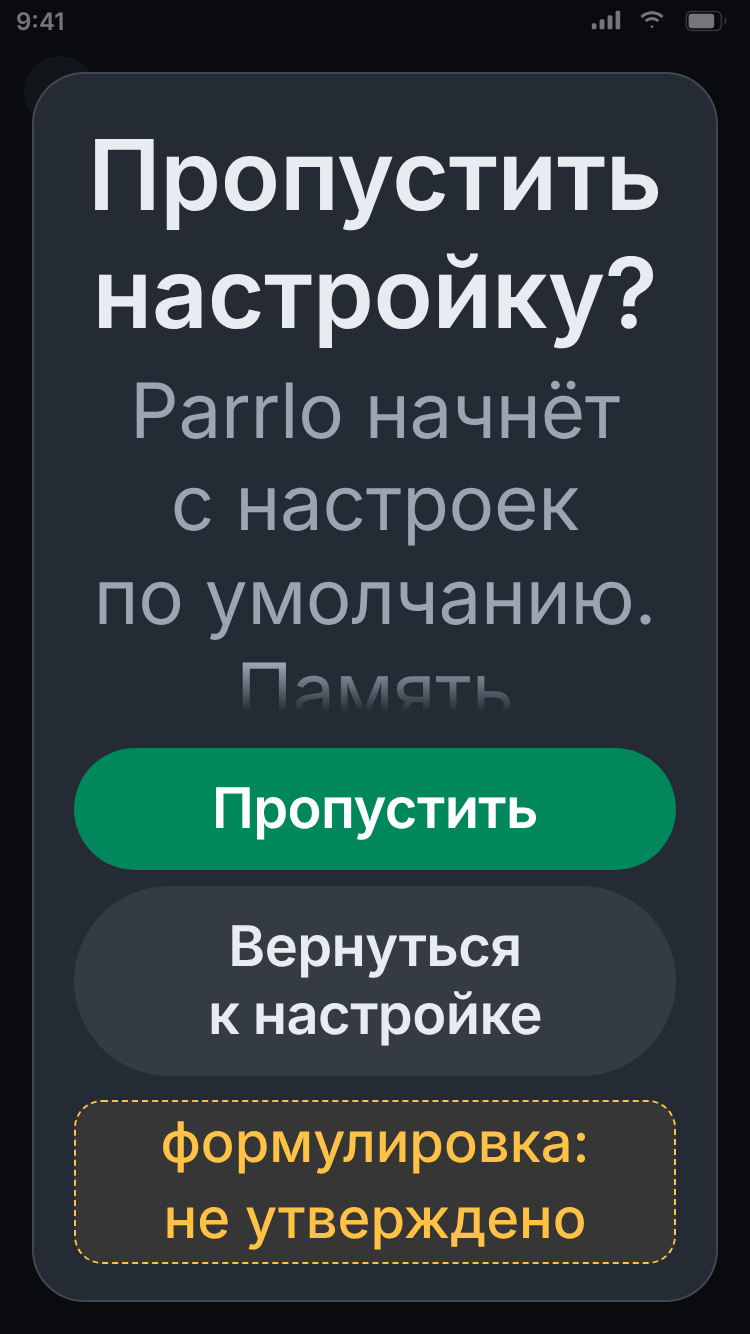
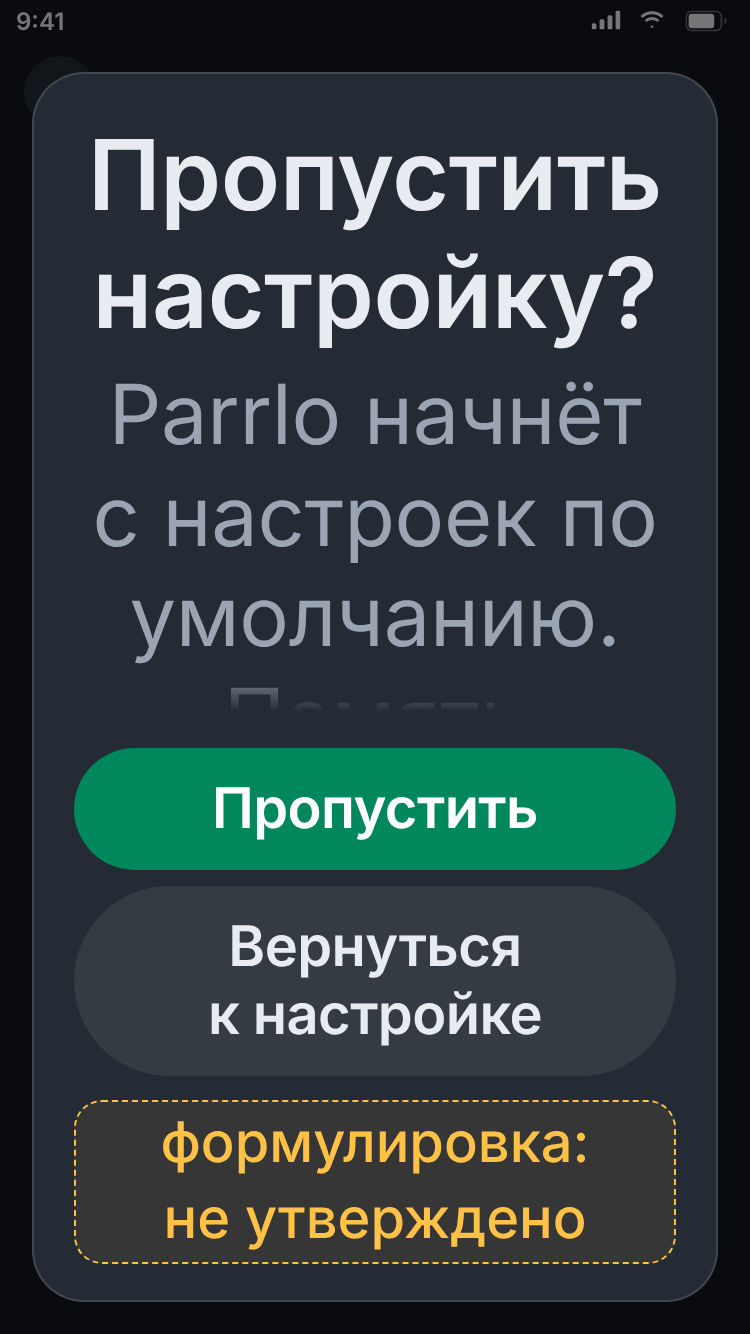
Онбординг: порядок раскладка → unglue → WordFit (только одиночные слова); проверка цепочек из PR 74 — 0
Claude-Session: https://claude.ai/code/session_01XzoWkW25V1nW2Qv4cEPq3n

Changed region(s): [[0.1227, 0.3688, 0.8893, 0.5225], [0.4907, 0.2766, 0.8587, 0.3381], [0.1533, 0.2766, 0.46, 0.3381]]

diff --git a/redesign-ios/onboarding/account-banned.html b/redesign-ios/onboarding/account-banned.html
@@ -39,7 +39,7 @@ h.dataset.theme='dark';var l=q.get('l');h.lang=(l==='es'||l==='en')?l:'ru';})()<
     L=Math.max(L,ab.left+parseFloat(ac.paddingLeft)+parseFloat(ac.borderLeftWidth)-0.5);R=Math.min(R,ab.right-parseFloat(ac.paddingRight)-parseFloat(ac.borderRightWidth)+0.5);if(a.classList.contains('screen'))break}
    var bad=false;
    var w=document.createTreeWalker(el,NodeFilter.SHOW_TEXT), n;
-   while(!bad&&(n=w.nextNode())){if(n.parentElement.closest(sel)!==el)continue;var re=/[^ \n\t]+/g,m;while((m=re.exec(n.data))){var r=document.createRange();r.setStart(n,m.index);r.setEnd(n,m.index+m[0].length);
+   while(!bad&&(n=w.nextNode())){if(n.parentElement.closest(sel)!==el)continue;var re=/[^ \n\t\u00a0]+/g,m;while((m=re.exec(n.data))){var r=document.createRange();r.setStart(n,m.index);r.setEnd(n,m.index+m[0].length);
      var rs=[].slice.call(r.getClientRects()).filter(function(x){return x.width>0});
      var tops={};rs.forEach(function(x){tops[Math.round(x.top)]=1});
      if(Object.keys(tops).length>1){bad=true;break}
@@ -55,13 +55,14 @@ h.dataset.theme='dark';var l=q.get('l');h.lang=(l==='es'||l==='en')?l:'ru';})()<
 (function(){var h=document.documentElement,t=document.getElementById('l-'+h.lang),m=document.querySelector('main');
 m.className='screen '+t.dataset.cls;m.appendChild(t.content.cloneNode(true));
 // порядок: раскладка → unglue → WordFit; data-ready — после обоих
-// раскладка → unglue → WordFit (склеенная цепочка считается одним словом: шрифт уменьшается, пока она не влезет) → unglue для оставшихся
+// порядок (решение Мурата 22.11): раскладка → unglue → WordFit (только одиночные слова, не ниже 28)
+// Если WordFit уменьшил шрифт блока, решения unglue в нём устарели: склейку в этом блоке возвращаем и снимаем заново
+// при новом шрифте (шрифт ради склейки не меняется).
 document.fonts.ready.then(function(){var orig=new Map(),tw=document.createTreeWalker(m,NodeFilter.SHOW_TEXT),x;
  while((x=tw.nextNode()))if(x.data.indexOf(' ')>=0)orig.set(x,x.data);
- window.unglue();
- orig.forEach(function(v,k){k.data=v});
- wordfit();
- window.unglue();
+ window.unglue();wordfit();
+ var fit=document.querySelectorAll('[data-wf]');
+ if(fit.length){fit.forEach(function(el){var w2=document.createTreeWalker(el,NodeFilter.SHOW_TEXT),y;while((y=w2.nextNode()))if(orig.has(y))y.data=orig.get(y);});window.unglue();}
  var s=document.querySelector('.susp'),g=document.querySelector('.msgs');if(s&&g)g.style.paddingBottom=(s.offsetHeight+8)+'px';
  document.body.dataset.ready='1';});})();</script>
 </body></html>

diff --git a/redesign-ios/onboarding/account-suspended.html b/redesign-ios/onboarding/account-suspended.html
@@ -54,7 +54,7 @@ h.dataset.theme='dark';var l=q.get('l');h.lang=(l==='es'||l==='en')?l:'ru';})()<
     L=Math.max(L,ab.left+parseFloat(ac.paddingLeft)+parseFloat(ac.borderLeftWidth)-0.5);R=Math.min(R,ab.right-parseFloat(ac.paddingRight)-parseFloat(ac.borderRightWidth)+0.5);if(a.classList.contains('screen'))break}
    var bad=false;
    var w=document.createTreeWalker(el,NodeFilter.SHOW_TEXT), n;
-   while(!bad&&(n=w.nextNode())){if(n.parentElement.closest(sel)!==el)continue;var re=/[^ \n\t]+/g,m;while((m=re.exec(n.data))){var r=document.createRange();r.setStart(n,m.index);r.setEnd(n,m.index+m[0].length);
+   while(!bad&&(n=w.nextNode())){if(n.parentElement.closest(sel)!==el)continue;var re=/[^ \n\t\u00a0]+/g,m;while((m=re.exec(n.data))){var r=document.createRange();r.setStart(n,m.index);r.setEnd(n,m.index+m[0].length);
      var rs=[].slice.call(r.getClientRects()).filter(function(x){return x.width>0});
      var tops={};rs.forEach(function(x){tops[Math.round(x.top)]=1});
      if(Object.keys(tops).length>1){bad=true;break}
@@ -70,13 +70,14 @@ h.dataset.theme='dark';var l=q.get('l');h.lang=(l==='es'||l==='en')?l:'ru';})()<
 (function(){var h=document.documentElement,t=document.getElementById('l-'+h.lang),m=document.querySelector('main');
 m.className='screen '+t.dataset.cls;m.appendChild(t.content.cloneNode(true));
 // порядок: раскладка → unglue → WordFit; data-ready — после обоих
-// раскладка → unglue → WordFit (склеенная цепочка считается одним словом: шрифт уменьшается, пока она не влезет) → unglue для оставшихся
+// порядок (решение Мурата 22.11): раскладка → unglue → WordFit (только одиночные слова, не ниже 28)
+// Если WordFit уменьшил шрифт блока, решения unglue в нём устарели: склейку в этом блоке возвращаем и снимаем заново
+// при новом шрифте (шрифт ради склейки не меняется).
 document.fonts.ready.then(function(){var orig=new Map(),tw=document.createTreeWalker(m,NodeFilter.SHOW_TEXT),x;
  while((x=tw.nextNode()))if(x.data.indexOf(' ')>=0)orig.set(x,x.data);
- window.unglue();
- orig.forEach(function(v,k){k.data=v});
- wordfit();
- window.unglue();
+ window.unglue();wordfit();
+ var fit=document.querySelectorAll('[data-wf]');
+ if(fit.length){fit.forEach(function(el){var w2=document.createTreeWalker(el,NodeFilter.SHOW_TEXT),y;while((y=w2.nextNode()))if(orig.has(y))y.data=orig.get(y);});window.unglue();}
  var s=document.querySelector('.susp'),g=document.querySelector('.msgs');if(s&&g)g.style.paddingBottom=(s.offsetHeight+8)+'px';
  document.body.dataset.ready='1';});})();</script>
 </body></html>

diff --git a/redesign-ios/onboarding/home-empty.html b/redesign-ios/onboarding/home-empty.html
@@ -45,7 +45,7 @@ h.dataset.theme='dark';var l=q.get('l');h.lang=(l==='es'||l==='en')?l:'ru';})()<
     L=Math.max(L,ab.left+parseFloat(ac.paddingLeft)+parseFloat(ac.borderLeftWidth)-0.5);R=Math.min(R,ab.right-parseFloat(ac.paddingRight)-parseFloat(ac.borderRightWidth)+0.5);if(a.classList.contains('screen'))break}
    var bad=false;
    var w=document.createTreeWalker(el,NodeFilter.SHOW_TEXT), n;
-   while(!bad&&(n=w.nextNode())){if(n.parentElement.closest(sel)!==el)continue;var re=/[^ \n\t]+/g,m;while((m=re.exec(n.data))){var r=document.createRange();r.setStart(n,m.index);r.setEnd(n,m.index+m[0].length);
+   while(!bad&&(n=w.nextNode())){if(n.parentElement.closest(sel)!==el)continue;var re=/[^ \n\t\u00a0]+/g,m;while((m=re.exec(n.data))){var r=document.createRange();r.setStart(n,m.index);r.setEnd(n,m.index+m[0].length);
      var rs=[].slice.call(r.getClientRects()).filter(function(x){return x.width>0});
      var tops={};rs.forEach(function(x){tops[Math.round(x.top)]=1});
      if(Object.keys(tops).length>1){bad=true;break}
@@ -61,13 +61,14 @@ h.dataset.theme='dark';var l=q.get('l');h.lang=(l==='es'||l==='en')?l:'ru';})()<
 (function(){var h=document.documentElement,t=document.getElementById('l-'+h.lang),m=document.querySelector('main');
 m.className='screen '+t.dataset.cls;m.appendChild(t.content.cloneNode(true));
 // порядок: раскладка → unglue → WordFit; data-ready — после обоих
-// раскладка → unglue → WordFit (склеенная цепочка считается одним словом: шрифт уменьшается, пока она не влезет) → unglue для оставшихся
+// порядок (решение Мурата 22.11): раскладка → unglue → WordFit (только одиночные слова, не ниже 28)
+// Если WordFit уменьшил шрифт блока, решения unglue в нём устарели: склейку в этом блоке возвращаем и снимаем заново
+// при новом шрифте (шрифт ради склейки не меняется).
 document.fonts.ready.then(function(){var orig=new Map(),tw=document.createTreeWalker(m,NodeFilter.SHOW_TEXT),x;
  while((x=tw.nextNode()))if(x.data.indexOf(' ')>=0)orig.set(x,x.data);
- window.unglue();
- orig.forEach(function(v,k){k.data=v});
- wordfit();
- window.unglue();
+ window.unglue();wordfit();
+ var fit=document.querySelectorAll('[data-wf]');
+ if(fit.length){fit.forEach(function(el){var w2=document.createTreeWalker(el,NodeFilter.SHOW_TEXT),y;while((y=w2.nextNode()))if(orig.has(y))y.data=orig.get(y);});window.unglue();}
  var s=document.querySelector('.susp'),g=document.querySelector('.msgs');if(s&&g)g.style.paddingBottom=(s.offsetHeight+8)+'px';
  document.body.dataset.ready='1';});})();</script>
 </body></html>

diff --git a/redesign-ios/onboarding/ob-age-date.html b/redesign-ios/onboarding/ob-age-date.html
@@ -54,7 +54,7 @@ h.dataset.theme='dark';var l=q.get('l');h.lang=(l==='es'||l==='en')?l:'ru';})()<
     L=Math.max(L,ab.left+parseFloat(ac.paddingLeft)+parseFloat(ac.borderLeftWidth)-0.5);R=Math.min(R,ab.right-parseFloat(ac.paddingRight)-parseFloat(ac.borderRightWidth)+0.5);if(a.classList.contains('screen'))break}
    var bad=false;
    var w=document.createTreeWalker(el,NodeFilter.SHOW_TEXT), n;
-   while(!bad&&(n=w.nextNode())){if(n.parentElement.closest(sel)!==el)continue;var re=/[^ \n\t]+/g,m;while((m=re.exec(n.data))){var r=document.createRange();r.setStart(n,m.index);r.setEnd(n,m.index+m[0].length);
+   while(!bad&&(n=w.nextNode())){if(n.parentElement.closest(sel)!==el)continue;var re=/[^ \n\t\u00a0]+/g,m;while((m=re.exec(n.data))){var r=document.createRange();r.setStart(n,m.index);r.setEnd(n,m.index+m[0].length);
      var rs=[].slice.call(r.getClientRects()).filter(function(x){return x.width>0});
      var tops={};rs.forEach(function(x){tops[Math.round(x.top)]=1});
      if(Object.keys(tops).length>1){bad=true;break}
@@ -70,13 +70,14 @@ h.dataset.theme='dark';var l=q.get('l');h.lang=(l==='es'||l==='en')?l:'ru';})()<
 (function(){var h=document.documentElement,t=document.getElementById('l-'+h.lang),m=document.querySelector('main');
 m.className='screen '+t.dataset.cls;m.appendChild(t.content.cloneNode(true));
 // порядок: раскладка → unglue → WordFit; data-ready — после обоих
-// раскладка → unglue → WordFit (склеенная цепочка считается одним словом: шрифт уменьшается, пока она не влезет) → unglue для оставшихся
+// порядок (решение Мурата 22.11): раскладка → unglue → WordFit (только одиночные слова, не ниже 28)
+// Если WordFit уменьшил шрифт блока, решения unglue в нём устарели: склейку в этом блоке возвращаем и снимаем заново
+// при новом шрифте (шрифт ради склейки не меняется).
 document.fonts.ready.then(function(){var orig=new Map(),tw=document.createTreeWalker(m,NodeFilter.SHOW_TEXT),x;
  while((x=tw.nextNode()))if(x.data.indexOf(' ')>=0)orig.set(x,x.data);
- window.unglue();
- orig.forEach(function(v,k){k.data=v});
- wordfit();
- window.unglue();
+ window.unglue();wordfit();
+ var fit=document.querySelectorAll('[data-wf]');
+ if(fit.length){fit.forEach(function(el){var w2=document.createTreeWalker(el,NodeFilter.SHOW_TEXT),y;while((y=w2.nextNode()))if(orig.has(y))y.data=orig.get(y);});window.unglue();}
  var s=document.querySelector('.susp'),g=document.querySelector('.msgs');if(s&&g)g.style.paddingBottom=(s.offsetHeight+8)+'px';
  document.body.dataset.ready='1';});})();</script>
 </body></html>

diff --git a/redesign-ios/onboarding/ob-age-under-date.html b/redesign-ios/onboarding/ob-age-under-date.html
@@ -45,7 +45,7 @@ h.dataset.theme='dark';var l=q.get('l');h.lang=(l==='es'||l==='en')?l:'ru';})()<
     L=Math.max(L,ab.left+parseFloat(ac.paddingLeft)+parseFloat(ac.borderLeftWidth)-0.5);R=Math.min(R,ab.right-parseFloat(ac.paddingRight)-parseFloat(ac.borderRightWidth)+0.5);if(a.classList.contains('screen'))break}
    var bad=false;
    var w=document.createTreeWalker(el,NodeFilter.SHOW_TEXT), n;
-   while(!bad&&(n=w.nextNode())){if(n.parentElement.closest(sel)!==el)continue;var re=/[^ \n\t]+/g,m;while((m=re.exec(n.data))){var r=document.createRange();r.setStart(n,m.index);r.setEnd(n,m.index+m[0].length);
+   while(!bad&&(n=w.nextNode())){if(n.parentElement.closest(sel)!==el)continue;var re=/[^ \n\t\u00a0]+/g,m;while((m=re.exec(n.data))){var r=document.createRange();r.setStart(n,m.index);r.setEnd(n,m.index+m[0].length);
      var rs=[].slice.call(r.getClientRects()).filter(function(x){return x.width>0});
      var tops={};rs.forEach(function(x){tops[Math.round(x.top)]=1});
      if(Object.keys(tops).length>1){bad=true;break}
@@ -61,13 +61,14 @@ h.dataset.theme='dark';var l=q.get('l');h.lang=(l==='es'||l==='en')?l:'ru';})()<
 (function(){var h=document.documentElement,t=document.getElementById('l-'+h.lang),m=document.querySelector('main');
 m.className='screen '+t.dataset.cls;m.appendChild(t.content.cloneNode(true));
 // порядок: раскладка → unglue → WordFit; data-ready — после обоих
-// раскладка → unglue → WordFit (склеенная цепочка считается одним словом: шрифт уменьшается, пока она не влезет) → unglue для оставшихся
+// порядок (решение Мурата 22.11): раскладка → unglue → WordFit (только одиночные слова, не ниже 28)
+// Если WordFit уменьшил шрифт блока, решения unglue в нём устарели: склейку в этом блоке возвращаем и снимаем заново
+// при новом шрифте (шрифт ради склейки не меняется).
 document.fonts.ready.then(function(){var orig=new Map(),tw=document.createTreeWalker(m,NodeFilter.SHOW_TEXT),x;
  while((x=tw.nextNode()))if(x.data.indexOf(' ')>=0)orig.set(x,x.data);
- window.unglue();
- orig.forEach(function(v,k){k.data=v});
- wordfit();
- window.unglue();
+ window.unglue();wordfit();
+ var fit=document.querySelectorAll('[data-wf]');
+ if(fit.length){fit.forEach(function(el){var w2=document.createTreeWalker(el,NodeFilter.SHOW_TEXT),y;while((y=w2.nextNode()))if(orig.has(y))y.data=orig.get(y);});window.unglue();}
  var s=document.querySelector('.susp'),g=document.querySelector('.msgs');if(s&&g)g.style.paddingBottom=(s.offsetHeight+8)+'px';
  document.body.dataset.ready='1';});})();</script>
 </body></html>

diff --git a/redesign-ios/onboarding/ob-age-under.html b/redesign-ios/onboarding/ob-age-under.html
@@ -39,7 +39,7 @@ h.dataset.theme='dark';var l=q.get('l');h.lang=(l==='es'||l==='en')?l:'ru';})()<
     L=Math.max(L,ab.left+parseFloat(ac.paddingLeft)+parseFloat(ac.borderLeftWidth)-0.5);R=Math.min(R,ab.right-parseFloat(ac.paddingRight)-parseFloat(ac.borderRightWidth)+0.5);if(a.classList.contains('screen'))break}
    var bad=false;
    var w=document.createTreeWalker(el,NodeFilter.SHOW_TEXT), n;
-   while(!bad&&(n=w.nextNode())){if(n.parentElement.closest(sel)!==el)continue;var re=/[^ \n\t]+/g,m;while((m=re.exec(n.data))){var r=document.createRange();r.setStart(n,m.index);r.setEnd(n,m.index+m[0].length);
+   while(!bad&&(n=w.nextNode())){if(n.parentElement.closest(sel)!==el)continue;var re=/[^ \n\t\u00a0]+/g,m;while((m=re.exec(n.data))){var r=document.createRange();r.setStart(n,m.index);r.setEnd(n,m.index+m[0].length);
      var rs=[].slice.call(r.getClientRects()).filter(function(x){return x.width>0});
      var tops={};rs.forEach(function(x){tops[Math.round(x.top)]=1});
      if(Object.keys(tops).length>1){bad=true;break}
@@ -55,13 +55,14 @@ h.dataset.theme='dark';var l=q.get('l');h.lang=(l==='es'||l==='en')?l:'ru';})()<
 (function(){var h=document.documentElement,t=document.getElementById('l-'+h.lang),m=document.querySelector('main');
 m.className='screen '+t.dataset.cls;m.appendChild(t.content.cloneNode(true));
 // порядок: раскладка → unglue → WordFit; data-ready — после обоих
-// раскладка → unglue → WordFit (склеенная цепочка считается одним словом: шрифт уменьшается, пока она не влезет) → unglue для оставшихся
+// порядок (решение Мурата 22.11): раскладка → unglue → WordFit (только одиночные слова, не ниже 28)
+// Если WordFit уменьшил шрифт блока, решения unglue в нём устарели: склейку в этом блоке возвращаем и снимаем заново
+// при новом шрифте (шрифт ради склейки не меняется).
 document.fonts.ready.then(function(){var orig=new Map(),tw=document.createTreeWalker(m,NodeFilter.SHOW_TEXT),x;
  while((x=tw.nextNode()))if(x.data.indexOf(' ')>=0)orig.set(x,x.data);
- window.unglue();
- orig.forEach(function(v,k){k.data=v});
- wordfit();
- window.unglue();
+ window.unglue();wordfit();
+ var fit=document.querySelectorAll('[data-wf]');
+ if(fit.length){fit.forEach(function(el){var w2=document.createTreeWalker(el,NodeFilter.SHOW_TEXT),y;while((y=w2.nextNode()))if(orig.has(y))y.data=orig.get(y);});window.unglue();}
  var s=document.querySelector('.susp'),g=document.querySelector('.msgs');if(s&&g)g.style.paddingBottom=(s.offsetHeight+8)+'px';
  document.body.dataset.ready='1';});})();</script>
 </body></html>

diff --git a/redesign-ios/onboarding/ob-age.html b/redesign-ios/onboarding/ob-age.html
@@ -42,7 +42,7 @@ h.dataset.theme='dark';var l=q.get('l');h.lang=(l==='es'||l==='en')?l:'ru';})()<
     L=Math.max(L,ab.left+parseFloat(ac.paddingLeft)+parseFloat(ac.borderLeftWidth)-0.5);R=Math.min(R,ab.right-parseFloat(ac.paddingRight)-parseFloat(ac.borderRightWidth)+0.5);if(a.classList.contains('screen'))break}
    var bad=false;
    var w=document.createTreeWalker(el,NodeFilter.SHOW_TEXT), n;
-   while(!bad&&(n=w.nextNode())){if(n.parentElement.closest(sel)!==el)continue;var re=/[^ \n\t]+/g,m;while((m=re.exec(n.data))){var r=document.createRange();r.setStart(n,m.index);r.setEnd(n,m.index+m[0].length);
+   while(!bad&&(n=w.nextNode())){if(n.parentElement.closest(sel)!==el)continue;var re=/[^ \n\t\u00a0]+/g,m;while((m=re.exec(n.data))){var r=document.createRange();r.setStart(n,m.index);r.setEnd(n,m.index+m[0].length);
      var rs=[].slice.call(r.getClientRects()).filter(function(x){return x.width>0});
      var tops={};rs.forEach(function(x){tops[Math.round(x.top)]=1});
      if(Object.keys(tops).length>1){bad=true;break}
@@ -58,13 +58,14 @@ h.dataset.theme='dark';var l=q.get('l');h.lang=(l==='es'||l==='en')?l:'ru';})()<
 (function(){var h=document.documentElement,t=document.getElementById('l-'+h.lang),m=document.querySelector('main');
 m.className='screen '+t.dataset.cls;m.appendChild(t.content.cloneNode(true));
 // порядок: раскладка → unglue → WordFit; data-ready — после обоих
-// раскладка → unglue → WordFit (склеенная цепочка считается одним словом: шрифт уменьшается, пока она не влезет) → unglue для оставшихся
+// порядок (решение Мурата 22.11): раскладка → unglue → WordFit (только одиночные слова, не ниже 28)
+// Если WordFit уменьшил шрифт блока, решения unglue в нём устарели: склейку в этом блоке возвращаем и снимаем заново
+// при новом шрифте (шрифт ради склейки не меняется).
 document.fonts.ready.then(function(){var orig=new Map(),tw=document.createTreeWalker(m,NodeFilter.SHOW_TEXT),x;
  while((x=tw.nextNode()))if(x.data.indexOf(' ')>=0)orig.set(x,x.data);
- window.unglue();
- orig.forEach(function(v,k){k.data=v});
- wordfit();
- window.unglue();
+ window.unglue();wordfit();
+ var fit=document.querySelectorAll('[data-wf]');
+ if(fit.length){fit.forEach(function(el){var w2=document.createTreeWalker(el,NodeFilter.SHOW_TEXT),y;while((y=w2.nextNode()))if(orig.has(y))y.data=orig.get(y);});window.unglue();}
  var s=document.querySelector('.susp'),g=document.querySelector('.msgs');if(s&&g)g.style.paddingBottom=(s.offsetHeight+8)+'px';
  document.body.dataset.ready='1';});})();</script>
 </body></html>

diff --git a/redesign-ios/onboarding/ob-consent-no.html b/redesign-ios/onboarding/ob-consent-no.html
@@ -54,7 +54,7 @@ h.dataset.theme='dark';var l=q.get('l');h.lang=(l==='es'||l==='en')?l:'ru';})()<
     L=Math.max(L,ab.left+parseFloat(ac.paddingLeft)+parseFloat(ac.borderLeftWidth)-0.5);R=Math.min(R,ab.right-parseFloat(ac.paddingRight)-parseFloat(ac.borderRightWidth)+0.5);if(a.classList.contains('screen'))break}
    var bad=false;
    var w=document.createTreeWalker(el,NodeFilter.SHOW_TEXT), n;
-   while(!bad&&(n=w.nextNode())){if(n.parentElement.closest(sel)!==el)continue;var re=/[^ \n\t]+/g,m;while((m=re.exec(n.data))){var r=document.createRange();r.setStart(n,m.index);r.setEnd(n,m.index+m[0].length);
+   while(!bad&&(n=w.nextNode())){if(n.parentElement.closest(sel)!==el)continue;var re=/[^ \n\t\u00a0]+/g,m;while((m=re.exec(n.data))){var r=document.createRange();r.setStart(n,m.index);r.setEnd(n,m.index+m[0].length);
      var rs=[].slice.call(r.getClientRects()).filter(function(x){return x.width>0});
      var tops={};rs.forEach(function(x){tops[Math.round(x.top)]=1});
      if(Object.keys(tops).length>1){bad=true;break}
@@ -70,13 +70,14 @@ h.dataset.theme='dark';var l=q.get('l');h.lang=(l==='es'||l==='en')?l:'ru';})()<
 (function(){var h=document.documentElement,t=document.getElementById('l-'+h.lang),m=document.querySelector('main');
 m.className='screen '+t.dataset.cls;m.appendChild(t.content.cloneNode(true));
 // порядок: раскладка → unglue → WordFit; data-ready — после обоих
-// раскладка → unglue → WordFit (склеенная цепочка считается одним словом: шрифт уменьшается, пока она не влезет) → unglue для оставшихся
+// порядок (решение Мурата 22.11): раскладка → unglue → WordFit (только одиночные слова, не ниже 28)
+// Если WordFit уменьшил шрифт блока, решения unglue в нём устарели: склейку в этом блоке возвращаем и снимаем заново
+// при новом шрифте (шрифт ради склейки не меняется).
 document.fonts.ready.then(function(){var orig=new Map(),tw=document.createTreeWalker(m,NodeFilter.SHOW_TEXT),x;
  while((x=tw.nextNode()))if(x.data.indexOf(' ')>=0)orig.set(x,x.data);
- window.unglue();
- orig.forEach(function(v,k){k.data=v});
- wordfit();
- window.unglue();
+ window.unglue();wordfit();
+ var fit=document.querySelectorAll('[data-wf]');
+ if(fit.length){fit.forEach(function(el){var w2=document.createTreeWalker(el,NodeFilter.SHOW_TEXT),y;while((y=w2.nextNode()))if(orig.has(y))y.data=orig.get(y);});window.unglue();}
  var s=document.querySelector('.susp'),g=document.querySelector('.msgs');if(s&&g)g.style.paddingBottom=(s.offsetHeight+8)+'px';
  document.body.dataset.ready='1';});})();</script>
 </body></html>

diff --git a/redesign-ios/onboarding/ob-consent.html b/redesign-ios/onboarding/ob-consent.html
@@ -60,7 +60,7 @@ h.dataset.theme='dark';var l=q.get('l');h.lang=(l==='es'||l==='en')?l:'ru';})()<
     L=Math.max(L,ab.left+parseFloat(ac.paddingLeft)+parseFloat(ac.borderLeftWidth)-0.5);R=Math.min(R,ab.right-parseFloat(ac.paddingRight)-parseFloat(ac.borderRightWidth)+0.5);if(a.classList.contains('screen'))break}
    var bad=false;
    var w=document.createTreeWalker(el,NodeFilter.SHOW_TEXT), n;
-   while(!bad&&(n=w.nextNode())){if(n.parentElement.closest(sel)!==el)continue;var re=/[^ \n\t]+/g,m;while((m=re.exec(n.data))){var r=document.createRange();r.setStart(n,m.index);r.setEnd(n,m.index+m[0].length);
+   while(!bad&&(n=w.nextNode())){if(n.parentElement.closest(sel)!==el)continue;var re=/[^ \n\t\u00a0]+/g,m;while((m=re.exec(n.data))){var r=document.createRange();r.setStart(n,m.index);r.setEnd(n,m.index+m[0].length);
      var rs=[].slice.call(r.getClientRects()).filter(function(x){return x.width>0});
      var tops={};rs.forEach(function(x){tops[Math.round(x.top)]=1});
      if(Object.keys(tops).length>1){bad=true;break}
@@ -76,13 +76,14 @@ h.dataset.theme='dark';var l=q.get('l');h.lang=(l==='es'||l==='en')?l:'ru';})()<
 (function(){var h=document.documentElement,t=document.getElementById('l-'+h.lang),m=document.querySelector('main');
 m.className='screen '+t.dataset.cls;m.appendChild(t.content.cloneNode(true));
 // порядок: раскладка → unglue → WordFit; data-ready — после обоих
-// раскладка → unglue → WordFit (склеенная цепочка считается одним словом: шрифт уменьшается, пока она не влезет) → unglue для оставшихся
+// порядок (решение Мурата 22.11): раскладка → unglue → WordFit (только одиночные слова, не ниже 28)
+// Если WordFit уменьшил шрифт блока, решения unglue в нём устарели: склейку в этом блоке возвращаем и снимаем заново
+// при новом шрифте (шрифт ради склейки не меняется).
 document.fonts.ready.then(function(){var orig=new Map(),tw=document.createTreeWalker(m,NodeFilter.SHOW_TEXT),x;
  while((x=tw.nextNode()))if(x.data.indexOf(' ')>=0)orig.set(x,x.data);
- window.unglue();
- orig.forEach(function(v,k){k.data=v});
- wordfit();
- window.unglue();
+ window.unglue();wordfit();
+ var fit=document.querySelectorAll('[data-wf]');
+ if(fit.length){fit.forEach(function(el){var w2=document.createTreeWalker(el,NodeFilter.SHOW_TEXT),y;while((y=w2.nextNode()))if(orig.has(y))y.data=orig.get(y);});window.unglue();}
  var s=document.querySelector('.susp'),g=document.querySelector('.msgs');if(s&&g)g.style.paddingBottom=(s.offsetHeight+8)+'px';
  document.body.dataset.ready='1';});})();</script>
 </body></html>

diff --git a/redesign-ios/onboarding/ob-language.html b/redesign-ios/onboarding/ob-language.html
@@ -51,7 +51,7 @@ h.dataset.theme='dark';var l=q.get('l');h.lang=(l==='es'||l==='en')?l:'ru';})()<
     L=Math.max(L,ab.left+parseFloat(ac.paddingLeft)+parseFloat(ac.borderLeftWidth)-0.5);R=Math.min(R,ab.right-parseFloat(ac.paddingRight)-parseFloat(ac.borderRightWidth)+0.5);if(a.classList.contains('screen'))break}
    var bad=false;
    var w=document.createTreeWalker(el,NodeFilter.SHOW_TEXT), n;
-   while(!bad&&(n=w.nextNode())){if(n.parentElement.closest(sel)!==el)continue;var re=/[^ \n\t]+/g,m;while((m=re.exec(n.data))){var r=document.createRange();r.setStart(n,m.index);r.setEnd(n,m.index+m[0].length);
+   while(!bad&&(n=w.nextNode())){if(n.parentElement.closest(sel)!==el)continue;var re=/[^ \n\t\u00a0]+/g,m;while((m=re.exec(n.data))){var r=document.createRange();r.setStart(n,m.index);r.setEnd(n,m.index+m[0].length);
      var rs=[].slice.call(r.getClientRects()).filter(function(x){return x.width>0});
      var tops={};rs.forEach(function(x){tops[Math.round(x.top)]=1});
      if(Object.keys(tops).length>1){bad=true;break}
@@ -67,13 +67,14 @@ h.dataset.theme='dark';var l=q.get('l');h.lang=(l==='es'||l==='en')?l:'ru';})()<
 (function(){var h=document.documentElement,t=document.getElementById('l-'+h.lang),m=document.querySelector('main');
 m.className='screen '+t.dataset.cls;m.appendChild(t.content.cloneNode(true));
 // порядок: раскладка → unglue → WordFit; data-ready — после обоих
-// раскладка → unglue → WordFit (склеенная цепочка считается одним словом: шрифт уменьшается, пока она не влезет) → unglue для оставшихся
+// порядок (решение Мурата 22.11): раскладка → unglue → WordFit (только одиночные слова, не ниже 28)
+// Если WordFit уменьшил шрифт блока, решения unglue в нём устарели: склейку в этом блоке возвращаем и снимаем заново
+// при новом шрифте (шрифт ради склейки не меняется).
 document.fonts.ready.then(function(){var orig=new Map(),tw=document.createTreeWalker(m,NodeFilter.SHOW_TEXT),x;
  while((x=tw.nextNode()))if(x.data.indexOf(' ')>=0)orig.set(x,x.data);
- window.unglue();
- orig.forEach(function(v,k){k.data=v});
- wordfit();
- window.unglue();
+ window.unglue();wordfit();
+ var fit=document.querySelectorAll('[data-wf]');
+ if(fit.length){fit.forEach(function(el){var w2=document.createTreeWalker(el,NodeFilter.SHOW_TEXT),y;while((y=w2.nextNode()))if(orig.has(y))y.data=orig.get(y);});window.unglue();}
  var s=document.querySelector('.susp'),g=document.querySelector('.msgs');if(s&&g)g.style.paddingBottom=(s.offsetHeight+8)+'px';
  document.body.dataset.ready='1';});})();</script>
 </body></html>

diff --git a/redesign-ios/onboarding/ob-name.html b/redesign-ios/onboarding/ob-name.html
@@ -45,7 +45,7 @@ h.dataset.theme='dark';var l=q.get('l');h.lang=(l==='es'||l==='en')?l:'ru';})()<
     L=Math.max(L,ab.left+parseFloat(ac.paddingLeft)+parseFloat(ac.borderLeftWidth)-0.5);R=Math.min(R,ab.right-parseFloat(ac.paddingRight)-parseFloat(ac.borderRightWidth)+0.5);if(a.classList.contains('screen'))break}
    var bad=false;
    var w=document.createTreeWalker(el,NodeFilter.SHOW_TEXT), n;
-   while(!bad&&(n=w.nextNode())){if(n.parentElement.closest(sel)!==el)continue;var re=/[^ \n\t]+/g,m;while((m=re.exec(n.data))){var r=document.createRange();r.setStart(n,m.index);r.setEnd(n,m.index+m[0].length);
+   while(!bad&&(n=w.nextNode())){if(n.parentElement.closest(sel)!==el)continue;var re=/[^ \n\t\u00a0]+/g,m;while((m=re.exec(n.data))){var r=document.createRange();r.setStart(n,m.index);r.setEnd(n,m.index+m[0].length);
      var rs=[].slice.call(r.getClientRects()).filter(function(x){return x.width>0});
      var tops={};rs.forEach(function(x){tops[Math.round(x.top)]=1});
      if(Object.keys(tops).length>1){bad=true;break}
@@ -61,13 +61,14 @@ h.dataset.theme='dark';var l=q.get('l');h.lang=(l==='es'||l==='en')?l:'ru';})()<
 (function(){var h=document.documentElement,t=document.getElementById('l-'+h.lang),m=document.querySelector('main');
 m.className='screen '+t.dataset.cls;m.appendChild(t.content.cloneNode(true));
 // порядок: раскладка → unglue → WordFit; data-ready — после обоих
-// раскладка → unglue → WordFit (склеенная цепочка считается одним словом: шрифт уменьшается, пока она не влезет) → unglue для оставшихся
+// порядок (решение Мурата 22.11): раскладка → unglue → WordFit (только одиночные слова, не ниже 28)
+// Если WordFit уменьшил шрифт блока, решения unglue в нём устарели: склейку в этом блоке возвращаем и снимаем заново
+// при новом шрифте (шрифт ради склейки не меняется).
 document.fonts.ready.then(function(){var orig=new Map(),tw=document.createTreeWalker(m,NodeFilter.SHOW_TEXT),x;
  while((x=tw.nextNode()))if(x.data.indexOf(' ')>=0)orig.set(x,x.data);
- window.unglue();
- orig.forEach(function(v,k){k.data=v});
- wordfit();
- window.unglue();
+ window.unglue();wordfit();
+ var fit=document.querySelectorAll('[data-wf]');
+ if(fit.length){fit.forEach(function(el){var w2=document.createTreeWalker(el,NodeFilter.SHOW_TEXT),y;while((y=w2.nextNode()))if(orig.has(y))y.data=orig.get(y);});window.unglue();}
  var s=document.querySelector('.susp'),g=document.querySelector('.msgs');if(s&&g)g.style.paddingBottom=(s.offsetHeight+8)+'px';
  document.body.dataset.ready='1';});})();</script>
 </body></html>

diff --git a/redesign-ios/onboarding/ob-parrlo-setup-error.html b/redesign-ios/onboarding/ob-parrlo-setup-error.html
@@ -51,7 +51,7 @@ h.dataset.theme='dark';var l=q.get('l');h.lang=(l==='es'||l==='en')?l:'ru';})()<
     L=Math.max(L,ab.left+parseFloat(ac.paddingLeft)+parseFloat(ac.borderLeftWidth)-0.5);R=Math.min(R,ab.right-parseFloat(ac.paddingRight)-parseFloat(ac.borderRightWidth)+0.5);if(a.classList.contains('screen'))break}
    var bad=false;
    var w=document.createTreeWalker(el,NodeFilter.SHOW_TEXT), n;
-   while(!bad&&(n=w.nextNode())){if(n.parentElement.closest(sel)!==el)continue;var re=/[^ \n\t]+/g,m;while((m=re.exec(n.data))){var r=document.createRange();r.setStart(n,m.index);r.setEnd(n,m.index+m[0].length);
+   while(!bad&&(n=w.nextNode())){if(n.parentElement.closest(sel)!==el)continue;var re=/[^ \n\t\u00a0]+/g,m;while((m=re.exec(n.data))){var r=document.createRange();r.setStart(n,m.index);r.setEnd(n,m.index+m[0].length);
      var rs=[].slice.call(r.getClientRects()).filter(function(x){return x.width>0});
      var tops={};rs.forEach(function(x){tops[Math.round(x.top)]=1});
      if(Object.keys(tops).length>1){bad=true;break}
@@ -67,13 +67,14 @@ h.dataset.theme='dark';var l=q.get('l');h.lang=(l==='es'||l==='en')?l:'ru';})()<
 (function(){var h=document.documentElement,t=document.getElementById('l-'+h.lang),m=document.querySelector('main');
 m.className='screen '+t.dataset.cls;m.appendChild(t.content.cloneNode(true));
 // порядок: раскладка → unglue → WordFit; data-ready — после обоих
-// раскладка → unglue → WordFit (склеенная цепочка считается одним словом: шрифт уменьшается, пока она не влезет) → unglue для оставшихся
+// порядок (решение Мурата 22.11): раскладка → unglue → WordFit (только одиночные слова, не ниже 28)
+// Если WordFit уменьшил шрифт блока, решения unglue в нём устарели: склейку в этом блоке возвращаем и снимаем заново
+// при новом шрифте (шрифт ради склейки не меняется).
 document.fonts.ready.then(function(){var orig=new Map(),tw=document.createTreeWalker(m,NodeFilter.SHOW_TEXT),x;
  while((x=tw.nextNode()))if(x.data.indexOf(' ')>=0)orig.set(x,x.data);
- window.unglue();
- orig.forEach(function(v,k){k.data=v});
- wordfit();
- window.unglue();
+ window.unglue();wordfit();
+ var fit=document.querySelectorAll('[data-wf]');
+ if(fit.length){fit.forEach(function(el){var w2=document.createTreeWalker(el,NodeFilter.SHOW_TEXT),y;while((y=w2.nextNode()))if(orig.has(y))y.data=orig.get(y);});window.unglue();}
  var s=document.querySelector('.susp'),g=document.querySelector('.msgs');if(s&&g)g.style.paddingBottom=(s.offsetHeight+8)+'px';
  document.body.dataset.ready='1';});})();</script>
 </body></html>
